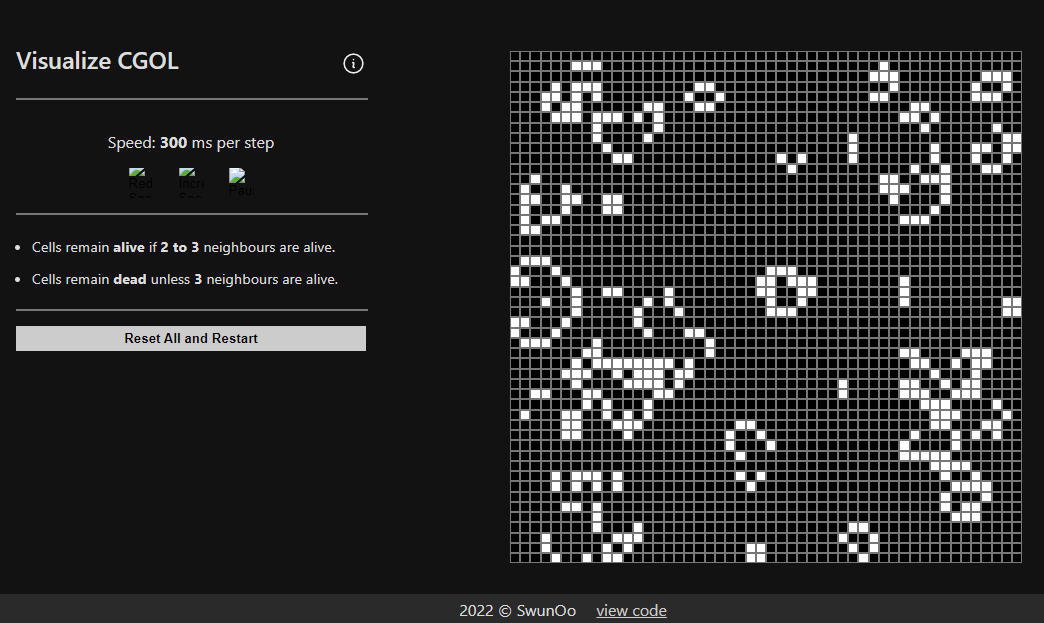
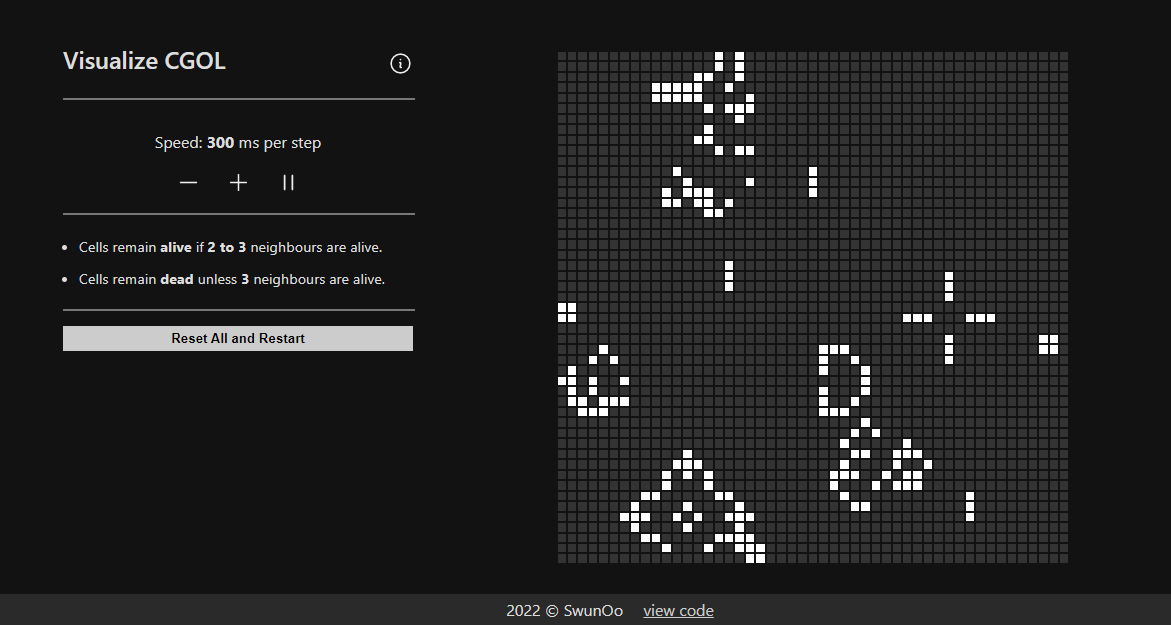
adding the photo

diff --git a/src/components/GameArea.jsx b/src/components/GameArea.jsx
@@ -88,7 +88,7 @@ export default function GameArea(){
                         key = {cellKey}
                         keyProp={cellKey}
                         cell_size = {cellSize}
-                        bg_color_dead = {'#000'}
+                        bg_color_dead = {'#333'}
                         bg_color_alive = {'#fff'}
                         currentState = {cellStates[cellKey]}
                         onClickHandler = {
@@ -131,7 +131,7 @@ export default function GameArea(){
                         key = {cellKey}
                         keyProp = {cellKey}
                         cell_size = {cellSize}
-                        bg_color_dead = {'#000'}
+                        bg_color_dead = {'#333'}
                         bg_color_alive = {'#fff'}
                         currentState = {false}
                         onClickHandler = {

diff --git a/src/components/Cell.jsx b/src/components/Cell.jsx
@@ -24,7 +24,7 @@ export default function Cell({ cell_size, bg_color_dead, bg_color_alive, onClick
                 width: cell_size,
                 height: cell_size,
                 backgroundColor: cellColor,
-                border: '1px solid #777',
+                border: '1px solid #121212',
                 boxSizing: 'border-box'
             }}
             onClick={(e) =>{
